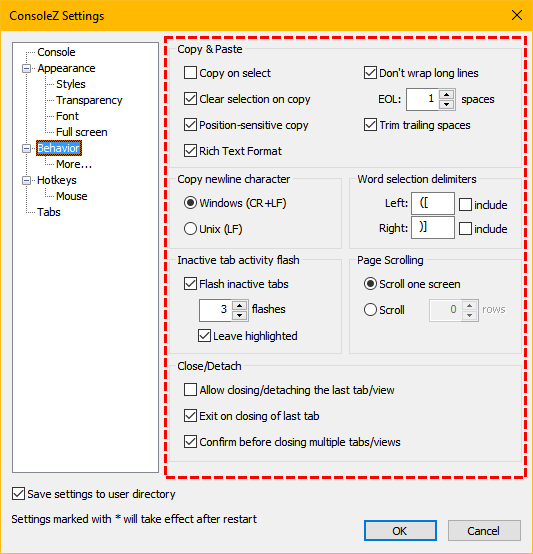
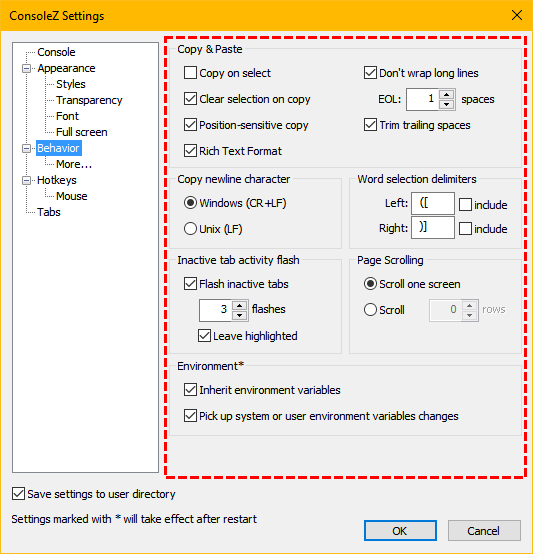
update documentation

Changed region(s): [[0.3302, 0.6444, 0.8705, 0.8285], [0.06, 0.2455, 0.1501, 0.3069]]

diff --git a/help/html/settings_behavior_more.html b/help/html/settings_behavior_more.html
@@ -1,4 +1,4 @@
-<!DOCTYPE html PUBLIC "-//W3C//DTD XHTML 1.0 Strict//EN" "http://www.w3.org/TR/xhtml1/DTD/xhtml1-strict.dtd">
+<!DOCTYPE html PUBLIC "-//W3C//DTD XHTML 1.0 Strict//EN" "http://www.w3.org/TR/xhtml1/DTD/xhtml1-strict.dtd">
 <html xmlns="http://www.w3.org/1999/xhtml" xml:lang="en">
 
 <head>
@@ -49,6 +49,34 @@
 	<p class="block-row-name">Use credential providers</p>
 	<p class="block-row-description">
 		If checked, credential providers are used (allowing integration of additional authentication mechanisms such as biometrics and smart cards).
+	</p>
+	<br />
+
+	<h2>Close/Detach</h2>
+
+	<p class="block-row-name">Allow closing the last tab/view</p>
+	<p class="block-row-description">
+		If checked, the tab close button is available for the last tab.<br />
+		ConsoleZ cannot prevent shell termination (if you type exit for example),
+		but can disable menu close actions or close button.
+	</p>
+
+	<p class="block-row-name">Exit on closing of last tab</p>
+	<p class="block-row-description">
+		If unchecked, the application doesn't exit on closing the last tab/view.
+	</p>
+
+	<p class="block-row-name">Confirm before closing multiple tabs/views</p>
+	<p class="block-row-description">
+		If checked, a confirmation message is displayed before closing multiple tabs/views.<br />
+		<br />
+		
+	</p>
+
+	<p class="block-row-name">Save workspace on exit</p>
+	<p class="block-row-description">
+		If checked, the current opened tabs and views are automatically saved in a workspace file on exit.<br />
+		If checked, auto-saved workspace file will be automatically loaded when a new instance of ConsoleZ, <b>without any tab specified in command line</b>, starts.
 	</p>
 	<br />
 

diff --git a/help/html/settings_behavior.html b/help/html/settings_behavior.html
@@ -131,27 +131,20 @@
 	</p>
 	<br />
 
-	<h2>Close/Detach</h2>
+	<h2>Environment</h2>
 
-	<p class="block-row-name">Allow closing the last tab/view</p>
+	<p class="block-row-name">Inherit environment variables</p>
 	<p class="block-row-description">
-		If checked, the tab close button is available for the last tab.<br />
-		ConsoleZ cannot prevent shell termination (if you type exit for example),
-		but can disable menu close actions or close button.
+		If checked, shells launched by ConsoleZ inherit environment variables from the process which launched ConsoleZ.
 	</p>
 
-	<p class="block-row-name">Exit on closing of last tab</p>
+	<p class="block-row-name">Pick up system or user environment variables changes</p>
 	<p class="block-row-description">
-		If unchecked, the application doesn't exit on closing the last tab/view.
-	</p>
-
-	<p class="block-row-name">Confirm before closing multiple tabs/views</p>
-	<p class="block-row-description">
-		If checked, a confirmation message is displayed before closing multiple tabs/views.
+		If checked, environment block is refreshed when WM_SETTINGCHANGE window message is received.
+		This window message is broadcasted when system or user environment variables are updated.<br />
+		If checked, a new environment block is created (You can inherit environment variables, from process which launched ConsoleZ, except those that are defined in system or user environment).
 	</p>
 	<br />
-
-
 </body>
 
 </html>

diff --git a/help/html/menus.html b/help/html/menus.html
@@ -68,6 +68,22 @@
 
 	<hr />
 
+	<p class="block-row-name">Load Workspace...</p>
+	<p class="block-row-description">
+		Opens a workspace file selection dialog (by default located in settings directory).
+		If a workspace file is selected, tabs (with split views) defined in this file are created.
+	</p>
+	<br />
+
+	<p class="block-row-name">Save Workspace...</p>
+	<p class="block-row-description">
+		Opens a workspace file selection dialog (by default located in settings directory).
+		If a workspace file is selected, current opened tabs (with split views) are saved into this file.
+	</p>
+	<br />
+
+	<hr />
+
 	<p class="block-row-name">Exit</p>
 	<p class="block-row-description">
 		Closes all tabs and exits ConsoleZ.

diff --git a/help/html/settings_appearance_styles.html b/help/html/settings_appearance_styles.html
@@ -171,6 +171,12 @@
 	</p>
 	<br />
 
+	<p class="block-row-name">Hide close button</p>
+	<p class="block-row-description">
+		If checked, close button is hidden in the tabs bar.
+	</p>
+	<br />
+
 </body>
 
 </html>
